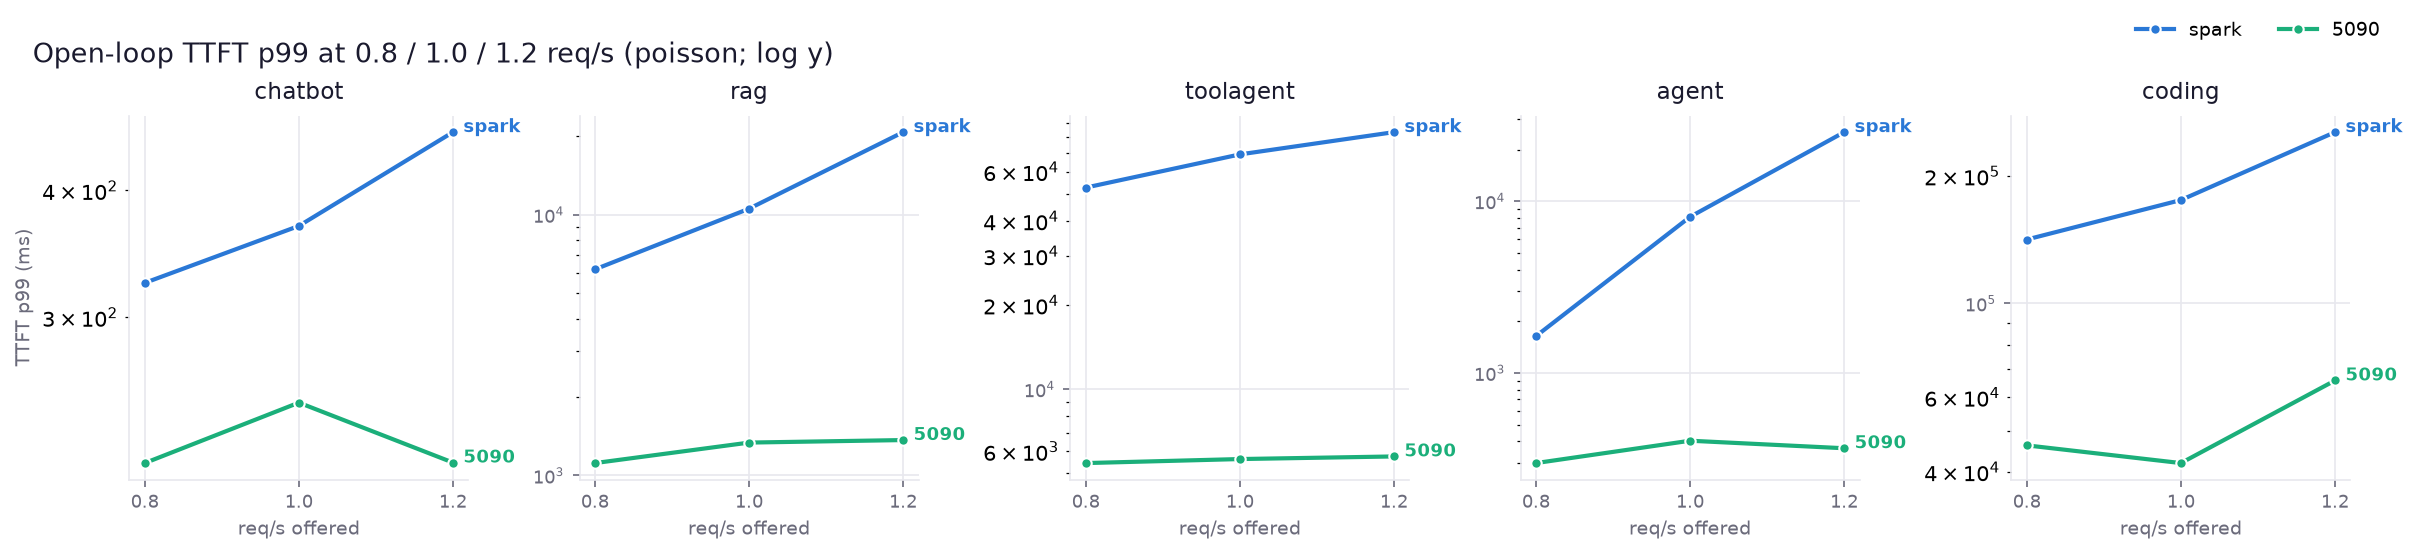
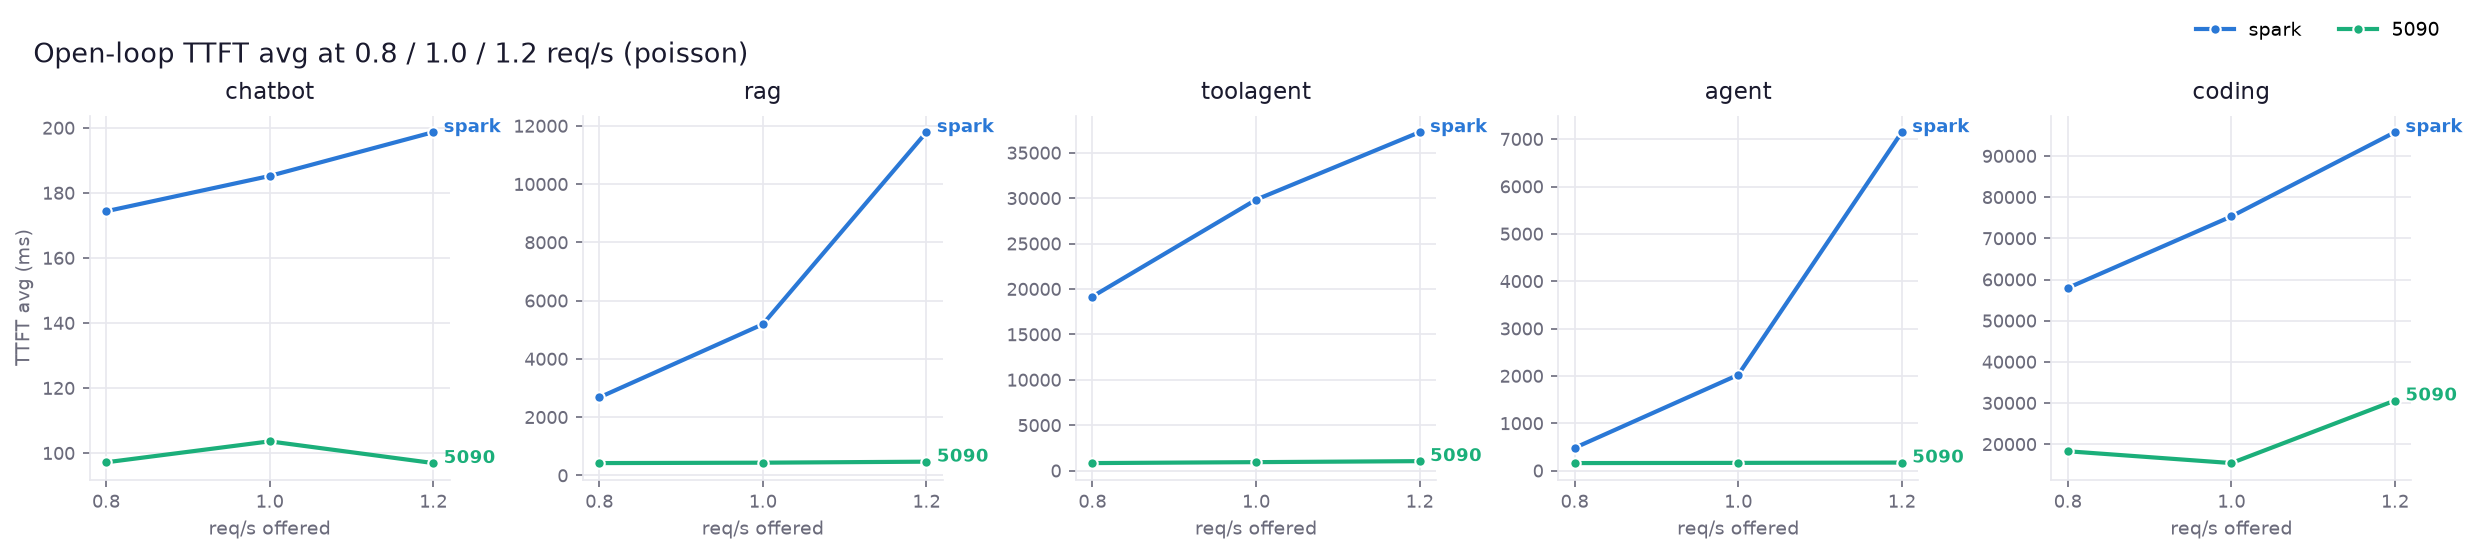
Rate-sweep figure: raw TTFT avg on linear y (was p99 log-y)
Claude-Session: https://claude.ai/code/session_016bujdB1i4bAwnwpxPWwZgw

diff --git a/scripts/plot_nvfp4.py b/scripts/plot_nvfp4.py
@@ -192,10 +192,9 @@ def main():
         lambda n, w, p: aiperf_metric(n, w, p, "Time to First Token (ms)"),
         logy=True, logx2=True)
     grid_figure(
-        "nvfp4_rate_ttft.png", RLEVELS, "req/s offered", "TTFT p99 (ms)",
-        "Open-loop TTFT p99 at 0.8 / 1.0 / 1.2 req/s (poisson; log y)",
-        lambda n, w, p: aiperf_metric(n, w, p, "Time to First Token (ms)", "p99"),
-        logy=True)
+        "nvfp4_rate_ttft.png", RLEVELS, "req/s offered", "TTFT avg (ms)",
+        "Open-loop TTFT avg at 0.8 / 1.0 / 1.2 req/s (poisson)",
+        lambda n, w, p: aiperf_metric(n, w, p, "Time to First Token (ms)"))
     grid_figure(
         "nvfp4_kv_recompute.png", CLEVELS, "concurrency", "prefix-cache queries (tokens)",
         "KV pressure: prefix-cache queries per point — recompute amplification on the 24x-smaller 5090 KV (log y)",
